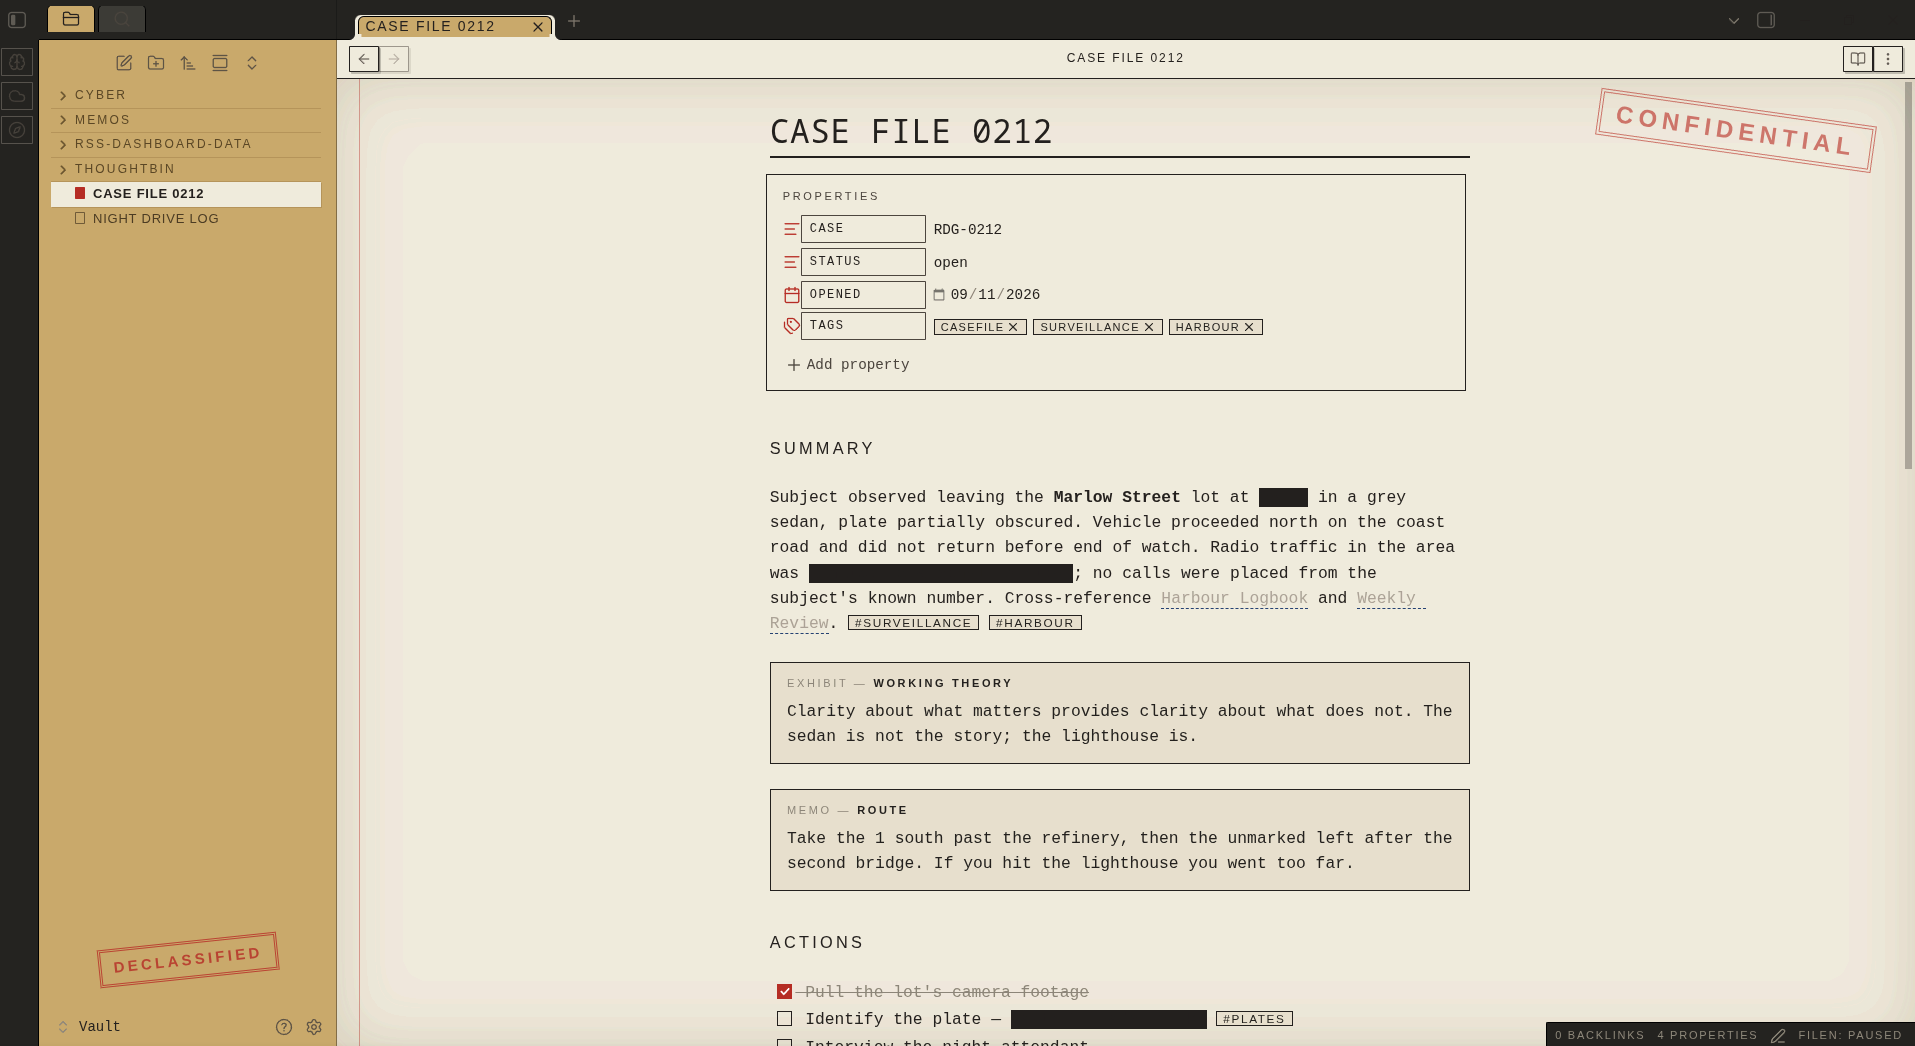
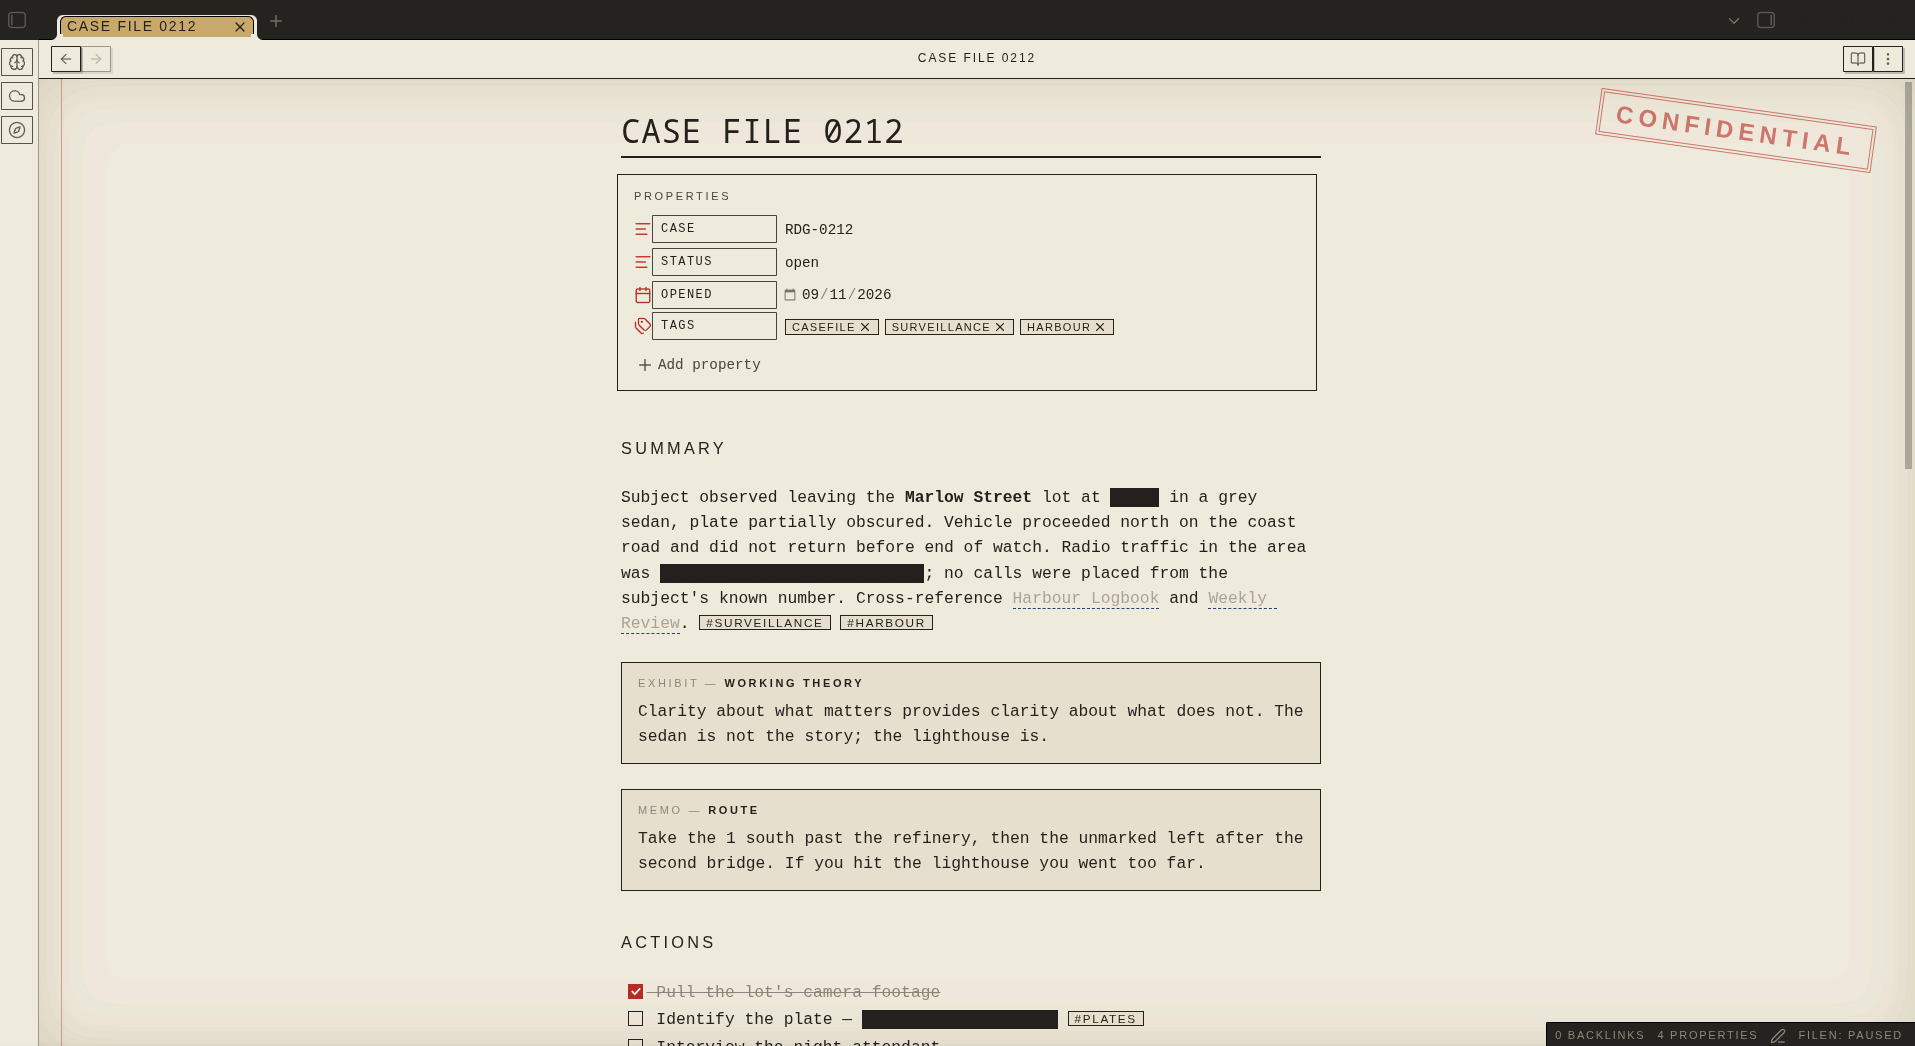
Day hero: sidebar closed to match night

diff --git a/README.md b/README.md
@@ -19,7 +19,7 @@ Mark a spoiler, an answer, a password, a punchline with `==double equals==` and 
 - Day mode: paper on a desk. Night mode: microfilm — dark paper, cream ink, cream redaction bars
 
 <p align="center">
-  <img src="docs/assets/hero-day.png" alt="A case file in Dossier, day mode, file explorer open" width="100%">
+  <img src="docs/assets/hero-day.png" alt="A case file in Dossier, day mode" width="100%">
 </p>
 <p align="center">
   <img src="docs/assets/hero-night.png" alt="The same case file in night mode" width="100%">
